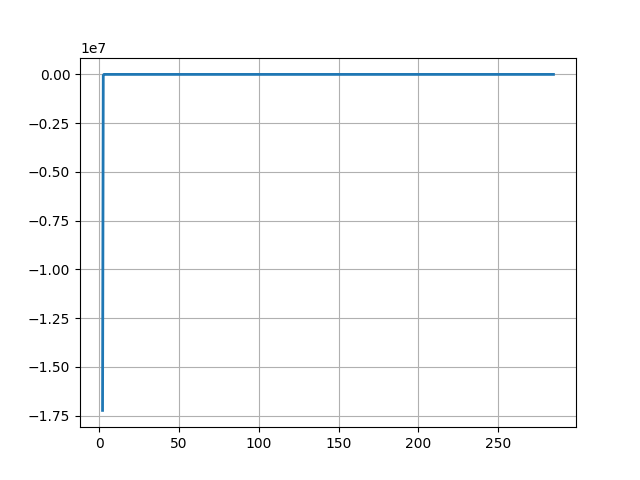
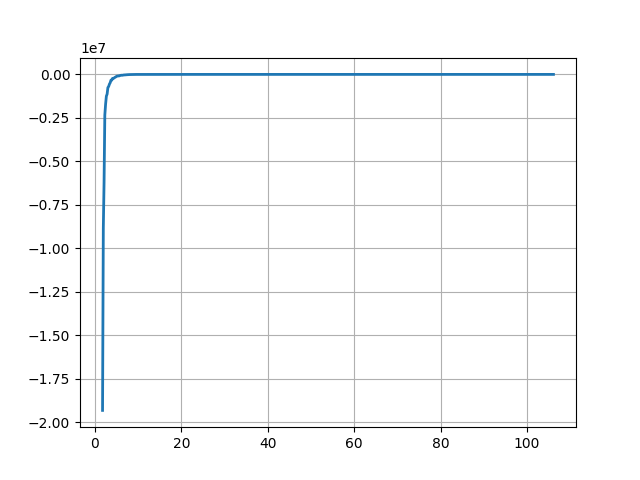
changes made in galeao

diff --git a/test.py b/test.py
@@ -25,11 +25,11 @@ geneticSettings = {
     'fitness': 'cross_entropy',
     'selection': 'truncate',
     'elite': 0.20,
-    'genetic_operators': [['crossover', 0.10], ['mutation', 0.10], ['mutation', 0.00001], ['mutation', 0.000001], ['mutation', 0.0000001]],
+    'genetic_operators': [['crossover', 0.10], ['mutation', 0.01], ['mutation', 0.00001], ['mutation', 0.000001], ['mutation', 0.0000001]],
     'genetic_operators_size': [0.10, 0.10, 0.20, 0.20, 0.20],
     'fineTuningRate': 0.05,
     'layers': [785, 10],
-    'mutationRate': 0.10,
+    'mutationRate': 0.05,
     'logdir': './log/',
     'fineTuning': True
 }
